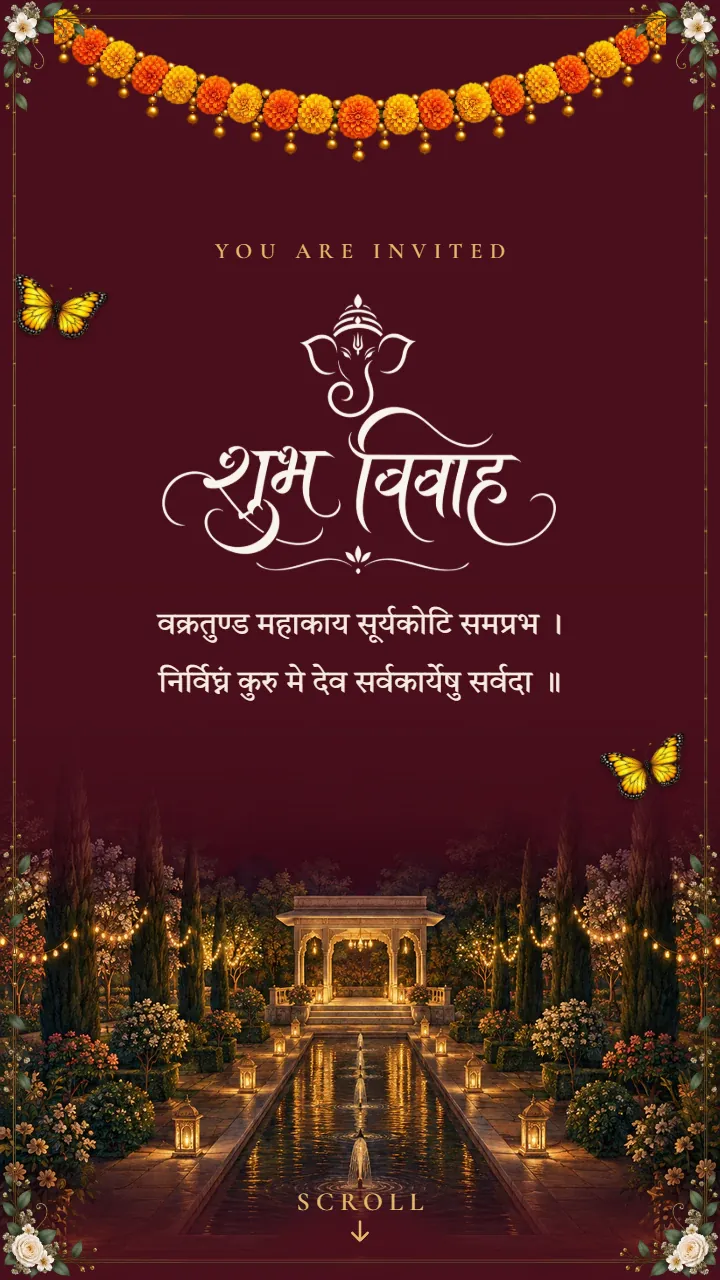
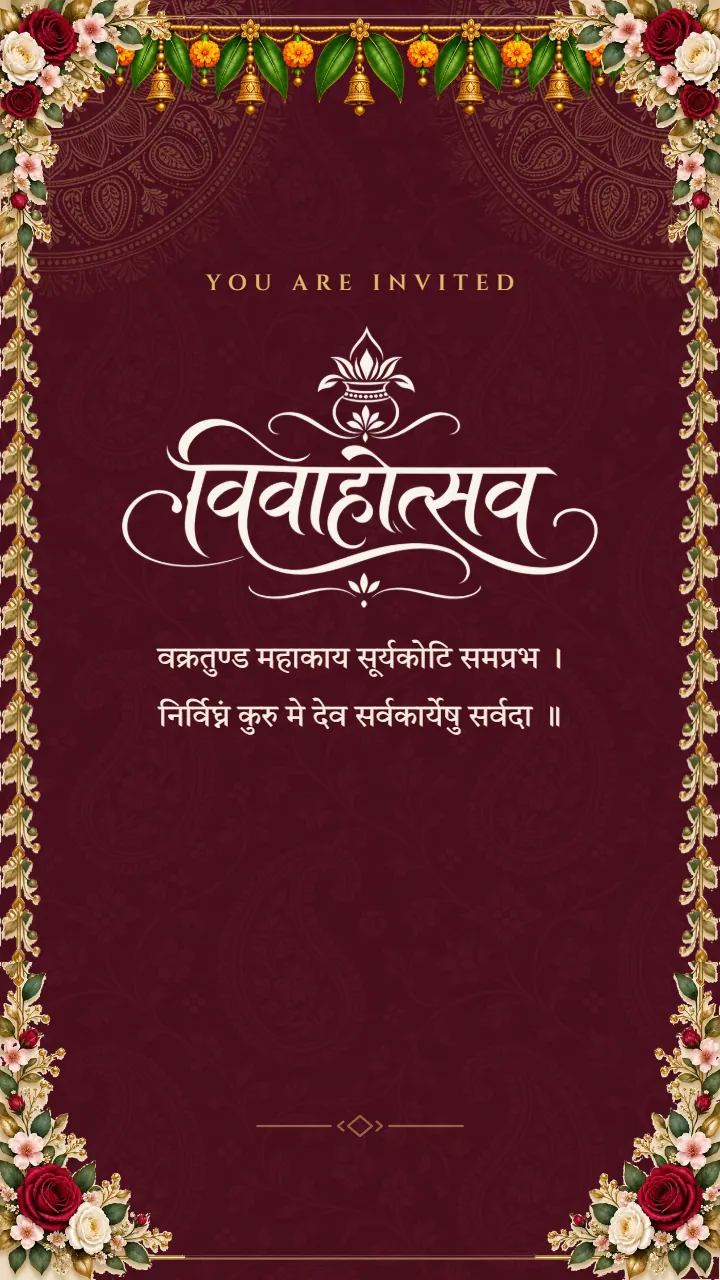
style(traditions): new look for Maroon Royal
No painting any more: the maroon ground is woven with the paisley brocade, with the white lotus mandala turning in the top corners. The toran at the head in place of the marigold garland, the swastik above the names, diyas in the corners and the names in the carved jharokha as before. Ivory and pink roses on a gold rule frame it (flowerIvory, in place of the thin noir line), white mogra petals fall as it opens and gold leaves drift; red petals and yellow butterflies are gone. The word-mark is Vivahotsav with its kalash, in place of Shubh Vivah, which draws Ganesh. The cover is the maroon velvet curtain, names in Cinzel (regal), roses between sections.

Gallery preview remade. Saved cards keep the look they were saved with.

diff --git a/lib/presets.ts b/lib/presets.ts
@@ -419,28 +419,36 @@ const PRESETS: readonly Preset[] = [
   {
     id: "maroon-royal",
     name: "Maroon Royal",
-    description: "Maroon and gold, a marigold garland, Om, diya and kalash.",
+    description: "Maroon paisley brocade, a toran, ivory roses and the carved jharokha.",
     tradition: "hindu",
     settings: {
       paletteId: "maroon",
       textPairId: "royalMaroon",
       accentOverride: null,
-      fontPairId: "royal",
+      fontPairId: "regal",
       density: "comfortable",
-      /* Noir's slim gold line and cream roses: a photo frame that holds on a dark ground. */
-      borderStyle: "flowerNoir",
-      decorMotion: "float",
+      /* Ivory and pink roses on a gold rule: a photo frame that holds on a dark ground. */
+      borderStyle: "flowerIvory",
+      decorMotion: "drift",
       decorIntensity: "subtle",
-      /* Yellow, not red: red wings disappear into maroon, as rose petals do. */
-      butterflies: "yellow",
-      leaves: false,
-      petals: "both",
-      petalFlower: "marigold",
-      coverAnimation: "envelope-seal",
-      ornaments: ["marigold", "om", "diya", "kalash"],
+      butterflies: "none",
+      /* Gold leaves drifting over the brocade. */
+      leaves: true,
+      nature: "goldLeaves",
+      /* White, not red: rose petals disappear into maroon. */
+      petals: "open",
+      petalFlower: "mogra",
+      /* Woven: the paisley brocade is the ground, and there is no painting over it. */
+      royalTexture: true,
+      royalTexturePattern: "paisley",
+      /* Maroon velvet with gold fringe, the colour of the card behind it. */
+      coverAnimation: "curtain-reveal",
+      /* The white lotus mandala turning in the two top corners, over the brocade. */
+      ornaments: ["toran", "swastik", "diya", "mandala"],
       /* A carved gold arch on maroon: the palace doorway the look is named for. */
       namesFrame: "jharokha",
-      calligraphy: "shubhVivah",
+      /* Vivahotsav and its kalash: no figure on the word-mark. */
+      calligraphy: "vivahotsav",
       greetingIfNone: "ganeshaya",
       blessingIfNone: "vakratunda",
     },

diff --git a/templates/maroon-royal/config.ts b/templates/maroon-royal/config.ts
@@ -5,6 +5,9 @@ import type { TemplateConfig } from "@/templates/types";
 /**
  * The "maroon-royal" preset as a template: its look from lib/presets.ts, and
  * the colourways and type pairs a host may change it to. See presetTemplate.
+ *
+ * No painting: the paisley brocade is the card's ground, from the toran to
+ * the names in their jharokha, and the sections are parted by roses.
  */
 export const MAROON_ROYAL: TemplateConfig = presetTemplate({
   presetId: "maroon-royal",
@@ -14,5 +17,7 @@ export const MAROON_ROYAL: TemplateConfig = presetTemplate({
     plain("midnight", "midnight"),
     { id: "forest", label: "Forest", paletteId: "forest", accentOverride: GOLD },
   ],
-  fontPairs: ["regal", "luxe"],
+  fontPairs: ["royal", "luxe"],
+  scene: "off",
+  divider: "rose",
 });
